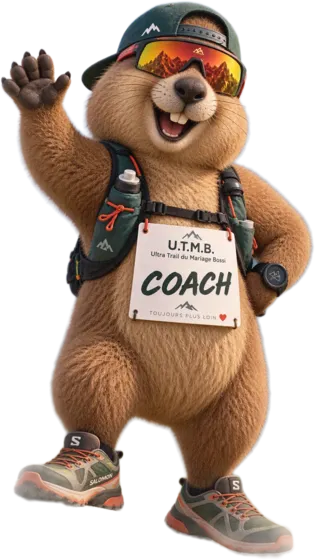
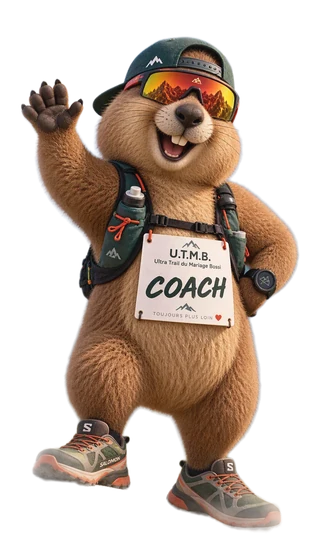
Add files via upload

diff --git a/app.js b/app.js
@@ -1,4 +1,4 @@
-/* UTMB — moteur du site V2.1.0 (le contenu se gère dans le Google Sheet) */
+/* UTMB — moteur du site V2.2.0 (le contenu se gère dans le Google Sheet) */
 (() => {
   'use strict';
   const C = window.UTMB_CONFIG, I18N = window.UTMB_I18N, FLAGS = window.UTMB_FLAGS;
@@ -654,6 +654,7 @@ if (stacked.has(e.id)) opts.offset = [-12, -3]; // marqueur superposé : toujour
   const DEMI = ['texte', 'email', 'telephone', 'nombre', 'date', 'liste'];
   const formulaires = () => (DATA.formulaires && Object.keys(DATA.formulaires).length) ? DATA.formulaires : (C.demo.formulaires || {});
   const vide = v => v == null || (Array.isArray(v) ? v.length === 0 : String(v).trim() === '');
+  const choixMultiple = q => q.type === 'cases' || (q.type === 'pastilles' && norm(q.mode_selection) === 'multiple');
 
   /* « presence=Oui », « presence!=Non », « besoin=A|B » */
   function condOk(si, rep) {
@@ -680,12 +681,12 @@ if (stacked.has(e.id)) opts.offset = [-12, -3]; // marqueur superposé : toujour
       case 'date': inner = lab + `<input id="${id}" name="${nm}" type="date" value="${esc(def)}"${rq}>`; break;
       case 'liste': inner = lab + `<select id="${id}" name="${nm}"${rq}><option value="">${esc(t('choisir'))}</option>` +
         opts.map(o => `<option value="${esc(o.v)}"${norm(o.v) === norm(def) ? ' selected' : ''}>${esc(o.l)}</option>`).join('') + '</select>'; break;
-      case 'choix': case 'ouinon': case 'cases': {
-        const multi = q.type === 'cases';
+      case 'choix': case 'ouinon': case 'cases': case 'pastilles': {
+        const multi = choixMultiple(q), pastilles = q.type === 'pastilles';
         const list = q.type === 'ouinon' && !opts.length ? [{ v: 'Oui', l: t('oui') }, { v: 'Non', l: t('non') }] : opts;
         const defs = def.split(';').map(norm);
-        inner = `<fieldset class="choice-set"><legend>${esc(q.question)}${req}</legend>${q.aide ? `<p class="q-aide">${esc(q.aide)}</p>` : ''}<div class="choice">` +
-          list.map(o => `<label><input type="${multi ? 'checkbox' : 'radio'}" name="${nm}" value="${esc(o.v)}"${defs.includes(norm(o.v)) && def ? ' checked' : ''}><span class="opt">${esc(o.l)}</span></label>`).join('') +
+        inner = `<fieldset class="choice-set${pastilles ? ' pills-set' : ''}"><legend>${esc(q.question)}${req}</legend>${q.aide ? `<p class="q-aide">${esc(q.aide)}</p>` : ''}<div class="choice${pastilles ? ` pills pills-${multi ? 'multi' : 'single'}` : ''}"${pastilles && !multi ? ' role="radiogroup"' : ''}>` +
+          list.map(o => `<label><input type="${multi ? 'checkbox' : 'radio'}" name="${nm}" value="${esc(o.v)}"${defs.includes(norm(o.v)) && def ? ' checked' : ''}${rq}><span class="opt">${esc(o.l)}</span></label>`).join('') +
           '</div></fieldset>';
         break;
       }
@@ -710,7 +711,7 @@ if (stacked.has(e.id)) opts.offset = [-12, -3]; // marqueur superposé : toujour
 
   function lireReponses(f) {
     const fd = new FormData(f), qs = formulaires()[f.dataset.type] || [], rep = {};
-    qs.forEach(q => { rep[q.id] = q.type === 'cases' ? fd.getAll(q.id) : (fd.get(q.id) ?? ''); });
+    qs.forEach(q => { rep[q.id] = choixMultiple(q) ? fd.getAll(q.id) : (fd.get(q.id) ?? ''); });
     return rep;
   }
 
@@ -811,7 +812,7 @@ if (stacked.has(e.id)) opts.offset = [-12, -3]; // marqueur superposé : toujour
       if (!condOk(q.si, rep)) continue;               // question masquée : ignorée
       let v = rep[q.id];
       if (q.obligatoire && vide(v)) return err(t('e_requis', { q: q.question }), q);
-      if (vide(v)) { envoi[q.id] = q.type === 'cases' ? [] : ''; continue; }
+      if (vide(v)) { envoi[q.id] = choixMultiple(q) ? [] : ''; continue; }
       if (q.type === 'email' && !/^[^@\s]+@[^@\s]+\.[^@\s]+$/.test(v)) return err(t('e_email'), q);
       if (q.type === 'nombre') {
         const n = Number(v);
@@ -832,7 +833,7 @@ if (stacked.has(e.id)) opts.offset = [-12, -3]; // marqueur superposé : toujour
         f.reset(); majConditions(f);
         /* Mémoire de l'appareil : réponses courtes (choix) pour les déblocages conditionnels */
         const courtes = {};
-        qs.forEach(q => { if (['choix', 'ouinon', 'liste', 'cases'].includes(q.type) && envoi[q.id] !== undefined) courtes[q.id] = envoi[q.id]; });
+        qs.forEach(q => { if (['choix', 'ouinon', 'liste', 'cases', 'pastilles'].includes(q.type) && envoi[q.id] !== undefined) courtes[q.id] = envoi[q.id]; });
         marquerForm(form, jeton, courtes);
         let texte;
         if (form === 'presence' && res.dossard) {

diff --git a/style.css b/style.css
@@ -1,4 +1,4 @@
-/* UTMB — Alpin chic & champêtre — V2.1.0 */
+/* UTMB — Alpin chic & champêtre — V2.2.0 */
 :root{
   --forest:#24382c; --forest-2:#2f4a3a; --moss:#6b7f5a; --sage:#a9b79a;
   --cream:#f6f1e7; --linen:#efe7d8; --sand:#d8c3a5; --gold:#b08d57; --gold-2:#c9a66b;
@@ -218,6 +218,18 @@ h1,h2,h3{font-family:var(--serif);font-weight:600;line-height:1.1;margin:0}
 .choice input{width:auto;flex:none;margin:0;accent-color:var(--forest)}
 .choice .opt{flex:1;min-width:0;overflow-wrap:anywhere;line-height:1.35}
 .choice label:has(input:checked){border-color:var(--forest);background:#eaf0e6}
+/* Sélections compactes pilotées par Questions › type=pastilles.
+   Le contrôle natif reste présent pour le clavier et les lecteurs d'écran. */
+.pills{align-items:center;gap:.55rem}
+.pills label{position:relative;flex:0 1 auto;min-width:0;width:auto;border-radius:999px;padding:.62rem 1rem;gap:.45rem;box-shadow:0 2px 8px rgba(36,56,44,.06);transition:border-color .18s,background .18s,color .18s,transform .18s,box-shadow .18s}
+.pills label:hover{transform:translateY(-1px);border-color:var(--moss);box-shadow:0 6px 14px -8px rgba(36,56,44,.45)}
+.pills input{position:absolute;width:1px!important;height:1px!important;padding:0!important;margin:-1px!important;overflow:hidden;clip:rect(0 0 0 0);clip-path:inset(50%);white-space:nowrap;border:0}
+.pills label::before{content:"";display:block;flex:none;width:.72rem;height:.72rem;border:1.5px solid var(--moss);border-radius:50%;background:#fff;box-shadow:inset 0 0 0 2px #fff}
+.pills-multi label::before{border-radius:3px}
+.pills label:has(input:checked){color:#fff;border-color:var(--forest);background:var(--forest);box-shadow:0 7px 16px -9px rgba(36,56,44,.8)}
+.pills label:has(input:checked)::before{background:var(--gold-2);border-color:var(--gold-2)}
+.pills-multi label:has(input:checked)::before{content:"✓";display:grid;place-items:center;color:var(--forest);font:800 .62rem/1 var(--sans)}
+.pills label:has(input:focus-visible){outline:3px solid var(--gold-2);outline-offset:3px}
 .hp{position:absolute;left:-9999px}
 .form-msg{margin:0;font-weight:600}
 .form-msg.ok{color:var(--forest-2)}.form-msg.err{color:#b04030}
@@ -326,6 +338,8 @@ h1,h2,h3{font-family:var(--serif);font-weight:600;line-height:1.1;margin:0}
   .form-grid{grid-template-columns:1fr}
   .choice{flex-direction:column}
   .choice label{min-width:0;width:100%}
+  .choice.pills{flex-direction:row;align-items:center}
+  .choice.pills label{width:auto}
   .form{padding:1.1rem}
   .row{grid-template-columns:1fr;gap:.5rem;padding:.9rem 1rem}
   .row-lien{justify-self:start}

diff --git a/config.js b/config.js
@@ -4,7 +4,7 @@
    (onglet Parametres) priment sur les valeurs ci-dessous.
    ========================================================= */
 window.UTMB_CONFIG = {
-version: "2.1.0",
+  version: "2.2.0",
 
   apiUrl: (window.UTMB_CLES && window.UTMB_CLES.apiUrl) || "",
   accessCodeHash: (window.UTMB_CLES && window.UTMB_CLES.accessCodeHash) || "",
@@ -84,7 +84,7 @@ version: "2.1.0",
       presence: [
         { id:"nom", question:"Nom & prénom", type:"texte", obligatoire:true },
         { id:"email", question:"E-mail", type:"email" },
-        { id:"presence", question:"Serez-vous sur la ligne de départ ?", type:"choix", obligatoire:true,
+        { id:"presence", question:"Serez-vous sur la ligne de départ ?", type:"pastilles", mode_selection:"unique", obligatoire:true,
           options:[{ v:"Oui", l:"🏃 Je prends le départ !" }, { v:"Non", l:"🫶 Abandon… mais de tout cœur avec vous" }] },
         { id:"adultes", question:"Nombre d'adultes", type:"nombre", min:0, max:20, defaut:1, obligatoire:true, si:"presence=Oui" },
         { id:"enfants", question:"Nombre d'enfants", type:"nombre", min:0, max:20, defaut:0, si:"presence=Oui" },

diff --git a/assets/coach/coach.js b/assets/coach/coach.js
@@ -1,4 +1,4 @@
-/* UTMB — Coach la marmotte (V2.1.0)
+/* UTMB — Coach la marmotte (V2.2.0)
    Module chargé À LA DEMANDE uniquement (jamais au démarrage de la page) par app.js.
    1 seule image (coach.webp, ~60 Ko) + animations Web Animations API (transform / opacity).
    7 animations : coucou, jumelles, montre, ravito (aléatoires) + dossard, deblocage, matos (événements). */
@@ -6,7 +6,7 @@
   'use strict';
   if (window.UTMB_COACH) return;
   const BASE = (document.currentScript && document.currentScript.src.replace(/coach\.js.*$/, '')) || 'assets/coach/';
-  const IMG = BASE + 'coach.webp?v=2.1.0';
+  const IMG = BASE + 'coach.webp?v=2.2.0';
   const RATIO = 315 / 560;                       // largeur / hauteur de coach.webp
   const VUES_KEY = 'utmb_coach_vues', OFF_KEY = 'utmb_coach_off';
 

diff --git a/index.html b/index.html
@@ -23,7 +23,7 @@
   <link rel="preconnect" href="https://script.google.com">
   <link rel="preconnect" href="https://script.googleusercontent.com">
   <link rel="dns-prefetch" href="https://unpkg.com">
-  <link rel="stylesheet" href="style.css?v=2.1.0">
+  <link rel="stylesheet" href="style.css?v=2.2.0">
 </head>
 <body class="chargement">
 
@@ -163,9 +163,9 @@
 
   <div class="toast" id="toast" role="status" aria-live="polite"></div>
 
-  <script src="cles.js?v=2.1.0"></script>
-  <script src="config.js?v=2.1.0"></script>
-  <script src="i18n.js?v=2.1.0"></script>
-  <script src="app.js?v=2.1.0"></script>
+  <script src="cles.js?v=2.2.0"></script>
+  <script src="config.js?v=2.2.0"></script>
+  <script src="i18n.js?v=2.2.0"></script>
+  <script src="app.js?v=2.2.0"></script>
 </body>
 </html>

diff --git a/sw.js b/sw.js
@@ -1,7 +1,7 @@
 /* UTMB — service worker (appli installable + secours hors ligne)
    Stratégie « réseau d'abord » : les mises à jour du site sont toujours prises en compte. */
-const CACHE = 'utmb-v2.1.0';
-const BASE = ['./', 'index.html', 'style.css?v=2.1.0', 'app.js?v=2.1.0', 'i18n.js?v=2.1.0', 'config.js?v=2.1.0', 'manifest.webmanifest', 'icons/icon-192.png'];
+const CACHE = 'utmb-v2.2.0';
+const BASE = ['./', 'index.html', 'style.css?v=2.2.0', 'app.js?v=2.2.0', 'i18n.js?v=2.2.0', 'config.js?v=2.2.0', 'manifest.webmanifest', 'icons/icon-192.png'];
 
 self.addEventListener('install', e => {
   self.skipWaiting();

diff --git a/CHANGELOG.md b/CHANGELOG.md
@@ -1,7 +1,18 @@
 # UTMB – Journal des versions
 
-## V2.1.0 — Coach épuré, carte aérienne, badges séquentiels, lexique de traduction 
-- Coach : accessoires emoji et animations associées retirés ; bulles conservées avec leurs emojis 
+## V2.2.0 — Sélections par pastilles pilotées depuis le Sheet
+- Nouveau type de question `pastilles` dans l’onglet `Questions`
+- Nouvelle colonne `mode_selection` : `unique` (une réponse) ou `multiple` (plusieurs réponses)
+- Options toujours définies dans la colonne `options`, séparées par `;`, avec le format facultatif `valeur=libellé`
+- Formulaire Présence : la question « Serez-vous sur la ligne de départ ? » utilise désormais des pastilles en choix unique
+- Migration sûre : `🏔 UTMB › Mettre à jour la structure` ajoute la colonne sans déplacer les données et convertit uniquement le choix Présence d’origine
+- Choix multiples enregistrés dans `Reponses_…` sous forme de valeurs séparées par `; `
+- Compatibilité conservée avec les types historiques `choix`, `cases`, `ouinon` et `liste`
+- Accessibilité : sélection utilisable au clavier, focus visible et contrôles natifs conservés pour les lecteurs d’écran
+- ⚠ `Code.gs` modifié → coller + enregistrer + créer une nouvelle version du déploiement Apps Script, puis mettre à jour la structure
+
+## V2.1.0 — Coach épuré, carte aérienne, badges séquentiels, lexique de traduction
+- Coach : accessoires emoji et animations associées retirés ; bulles conservées avec leurs emojis
 - Coach : « M&L » remplacé par « Marie et Lorenzo » dans les trois langues
 - Carte 3D : clic sur une étape moins rapproché et plus aérien ; nouveau réglage Sheet `carte_zoom_etape` (10,8 par défaut)
 - Badge « Nouveau » : une seule étape à la fois ; l'ancienne perd son badge dès qu'une nouvelle devient disponible
